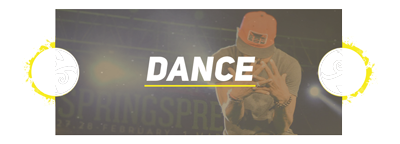
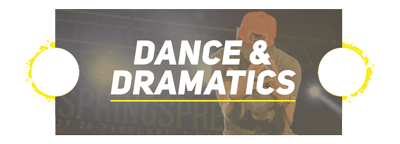
images

Changed region(s): [[0.27, 0.2778, 0.75, 0.6667], [0.27, 0.6944, 0.75, 0.7222], [0.15, 0.5278, 0.18, 0.5556]]

diff --git a/main.css b/main.css
@@ -45,7 +45,7 @@ body {
 
 }
 .circle-background {
-    background: rgba(0, 0, 0, 0.35) ; 
+    background: rgba(0, 0, 0, 0.2) ; 
 }
 
 .circle-container a {
@@ -100,10 +100,10 @@ font-size: 16px;
 text-align: center;
 width: 32px;
 height: 32px;
-border: 2px solid #000;
+border: 2px solid #001;
 border-radius: 50%;
 color: #000;
-margin: 2px;
+margin: 2px; 
 }
 
 a.social-icon:hover, a.social-icon:active, a.social-icon:focus
